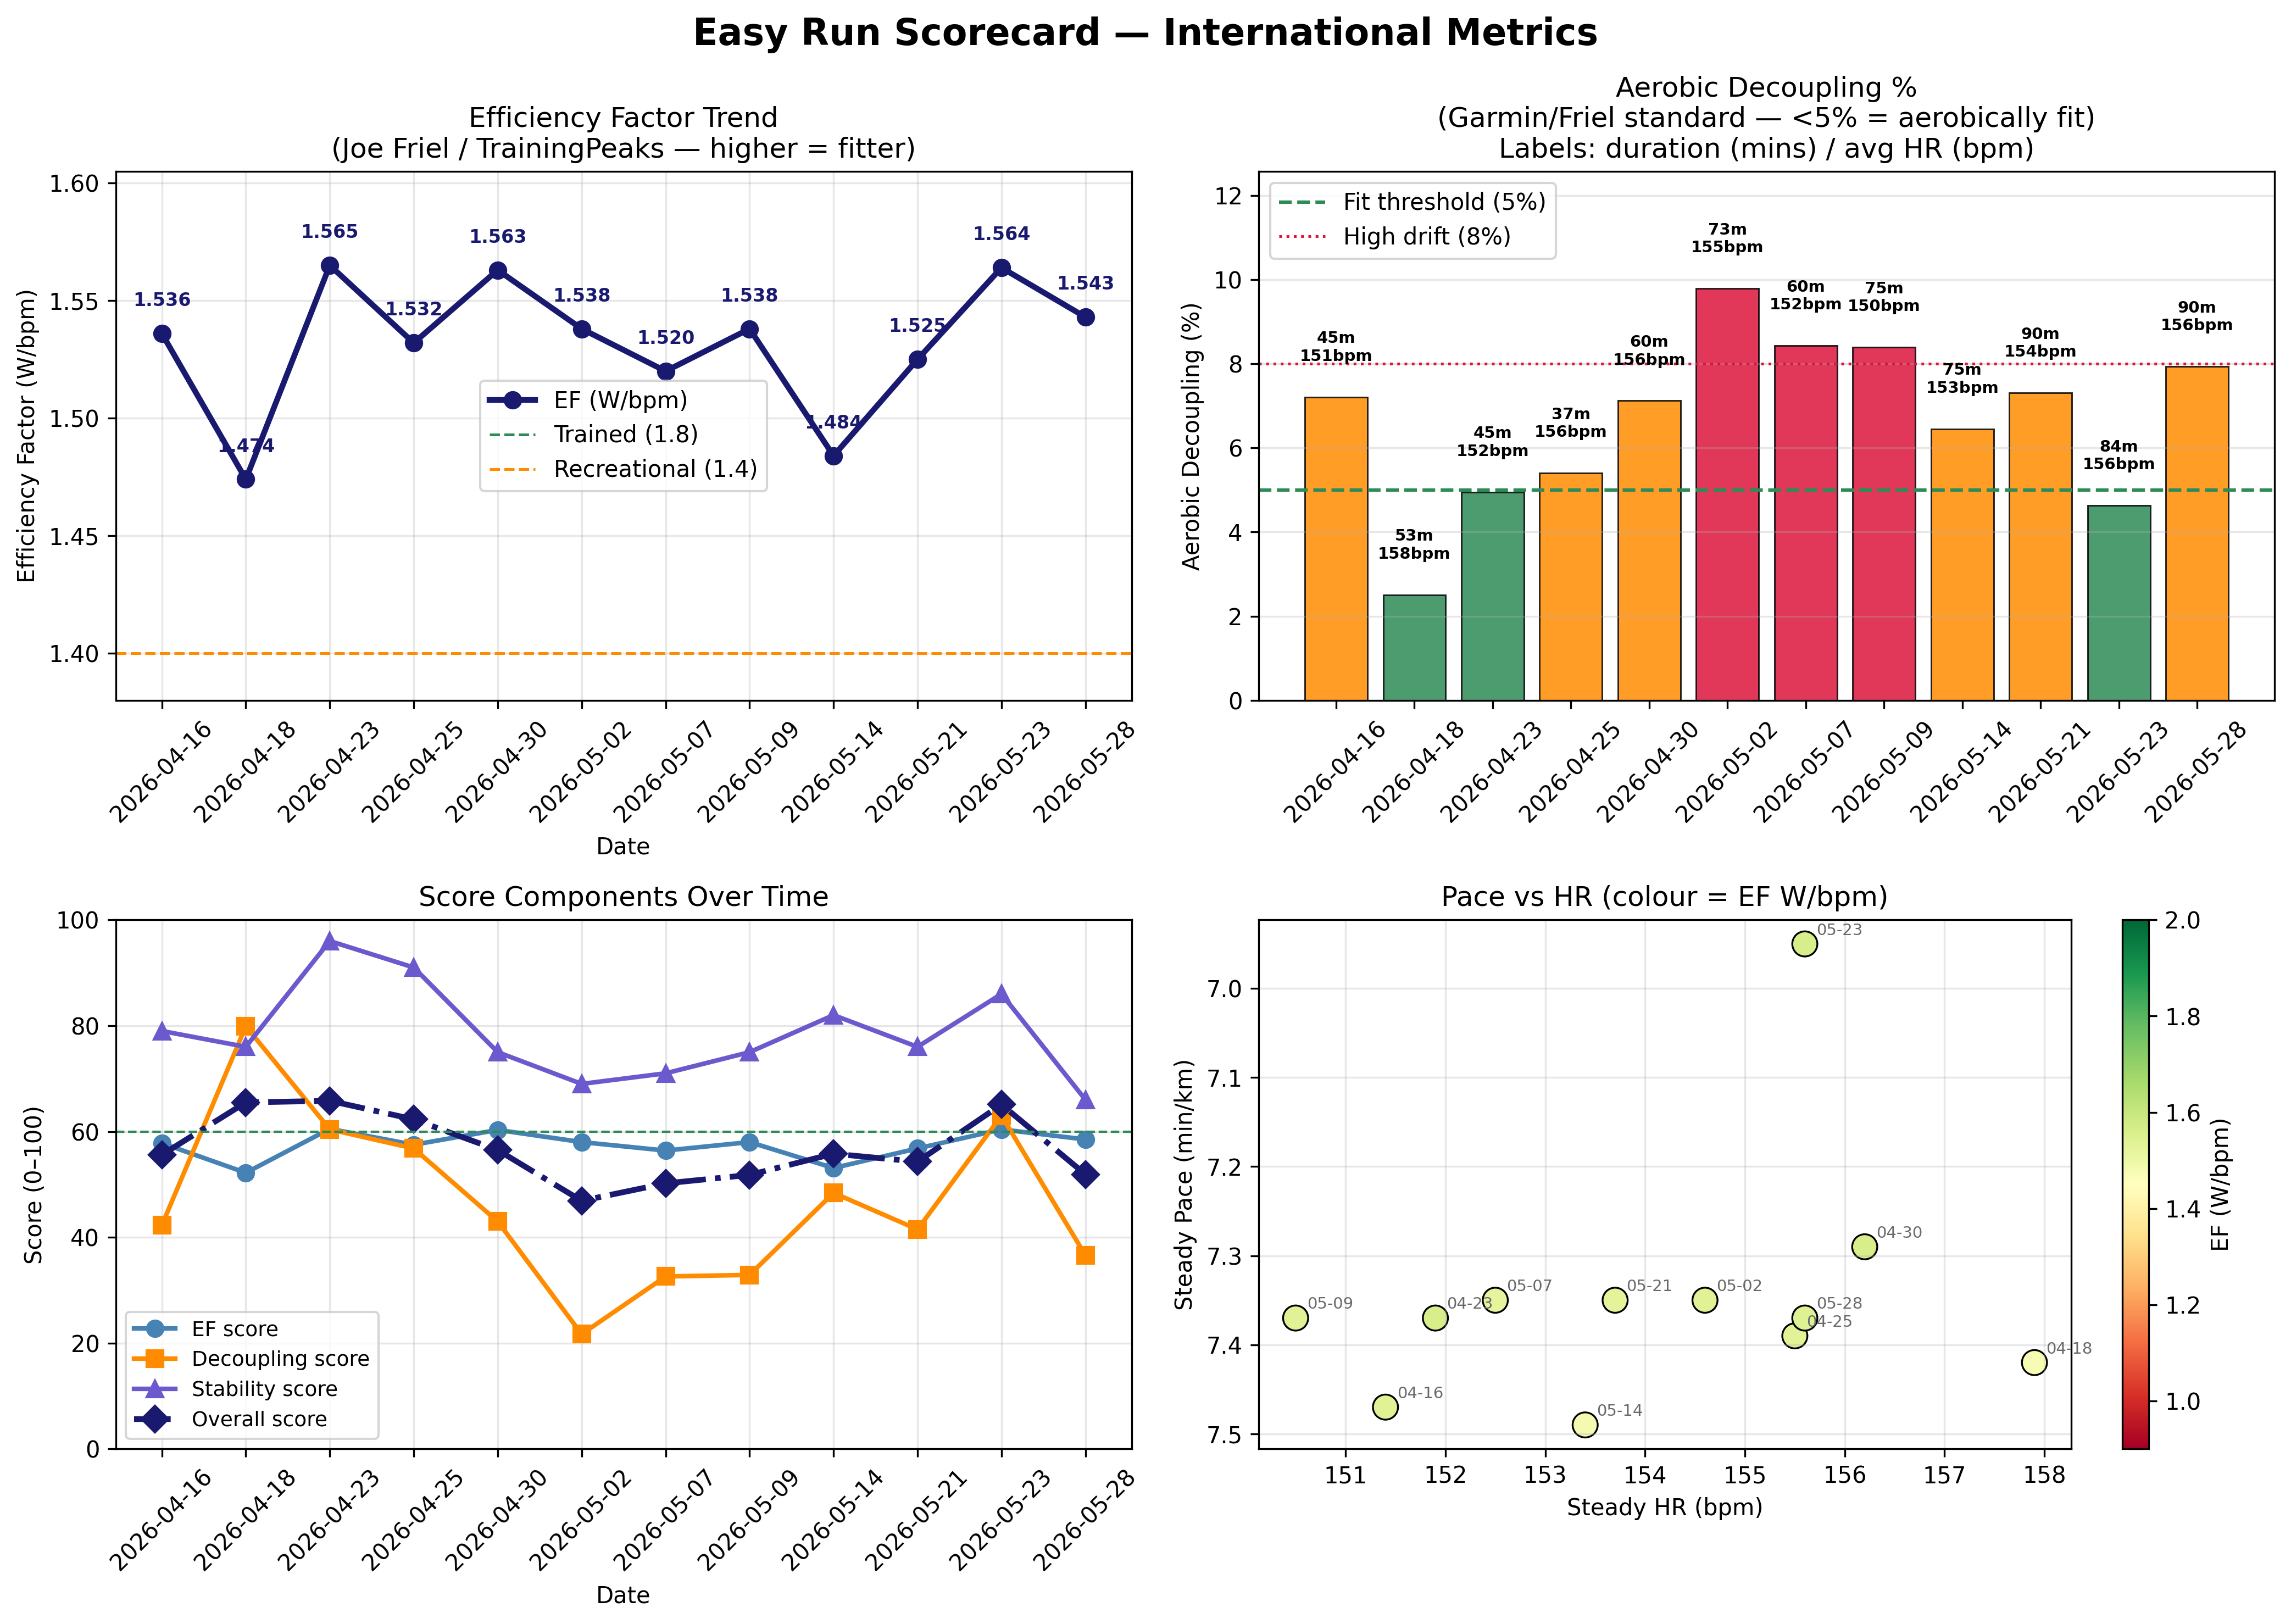
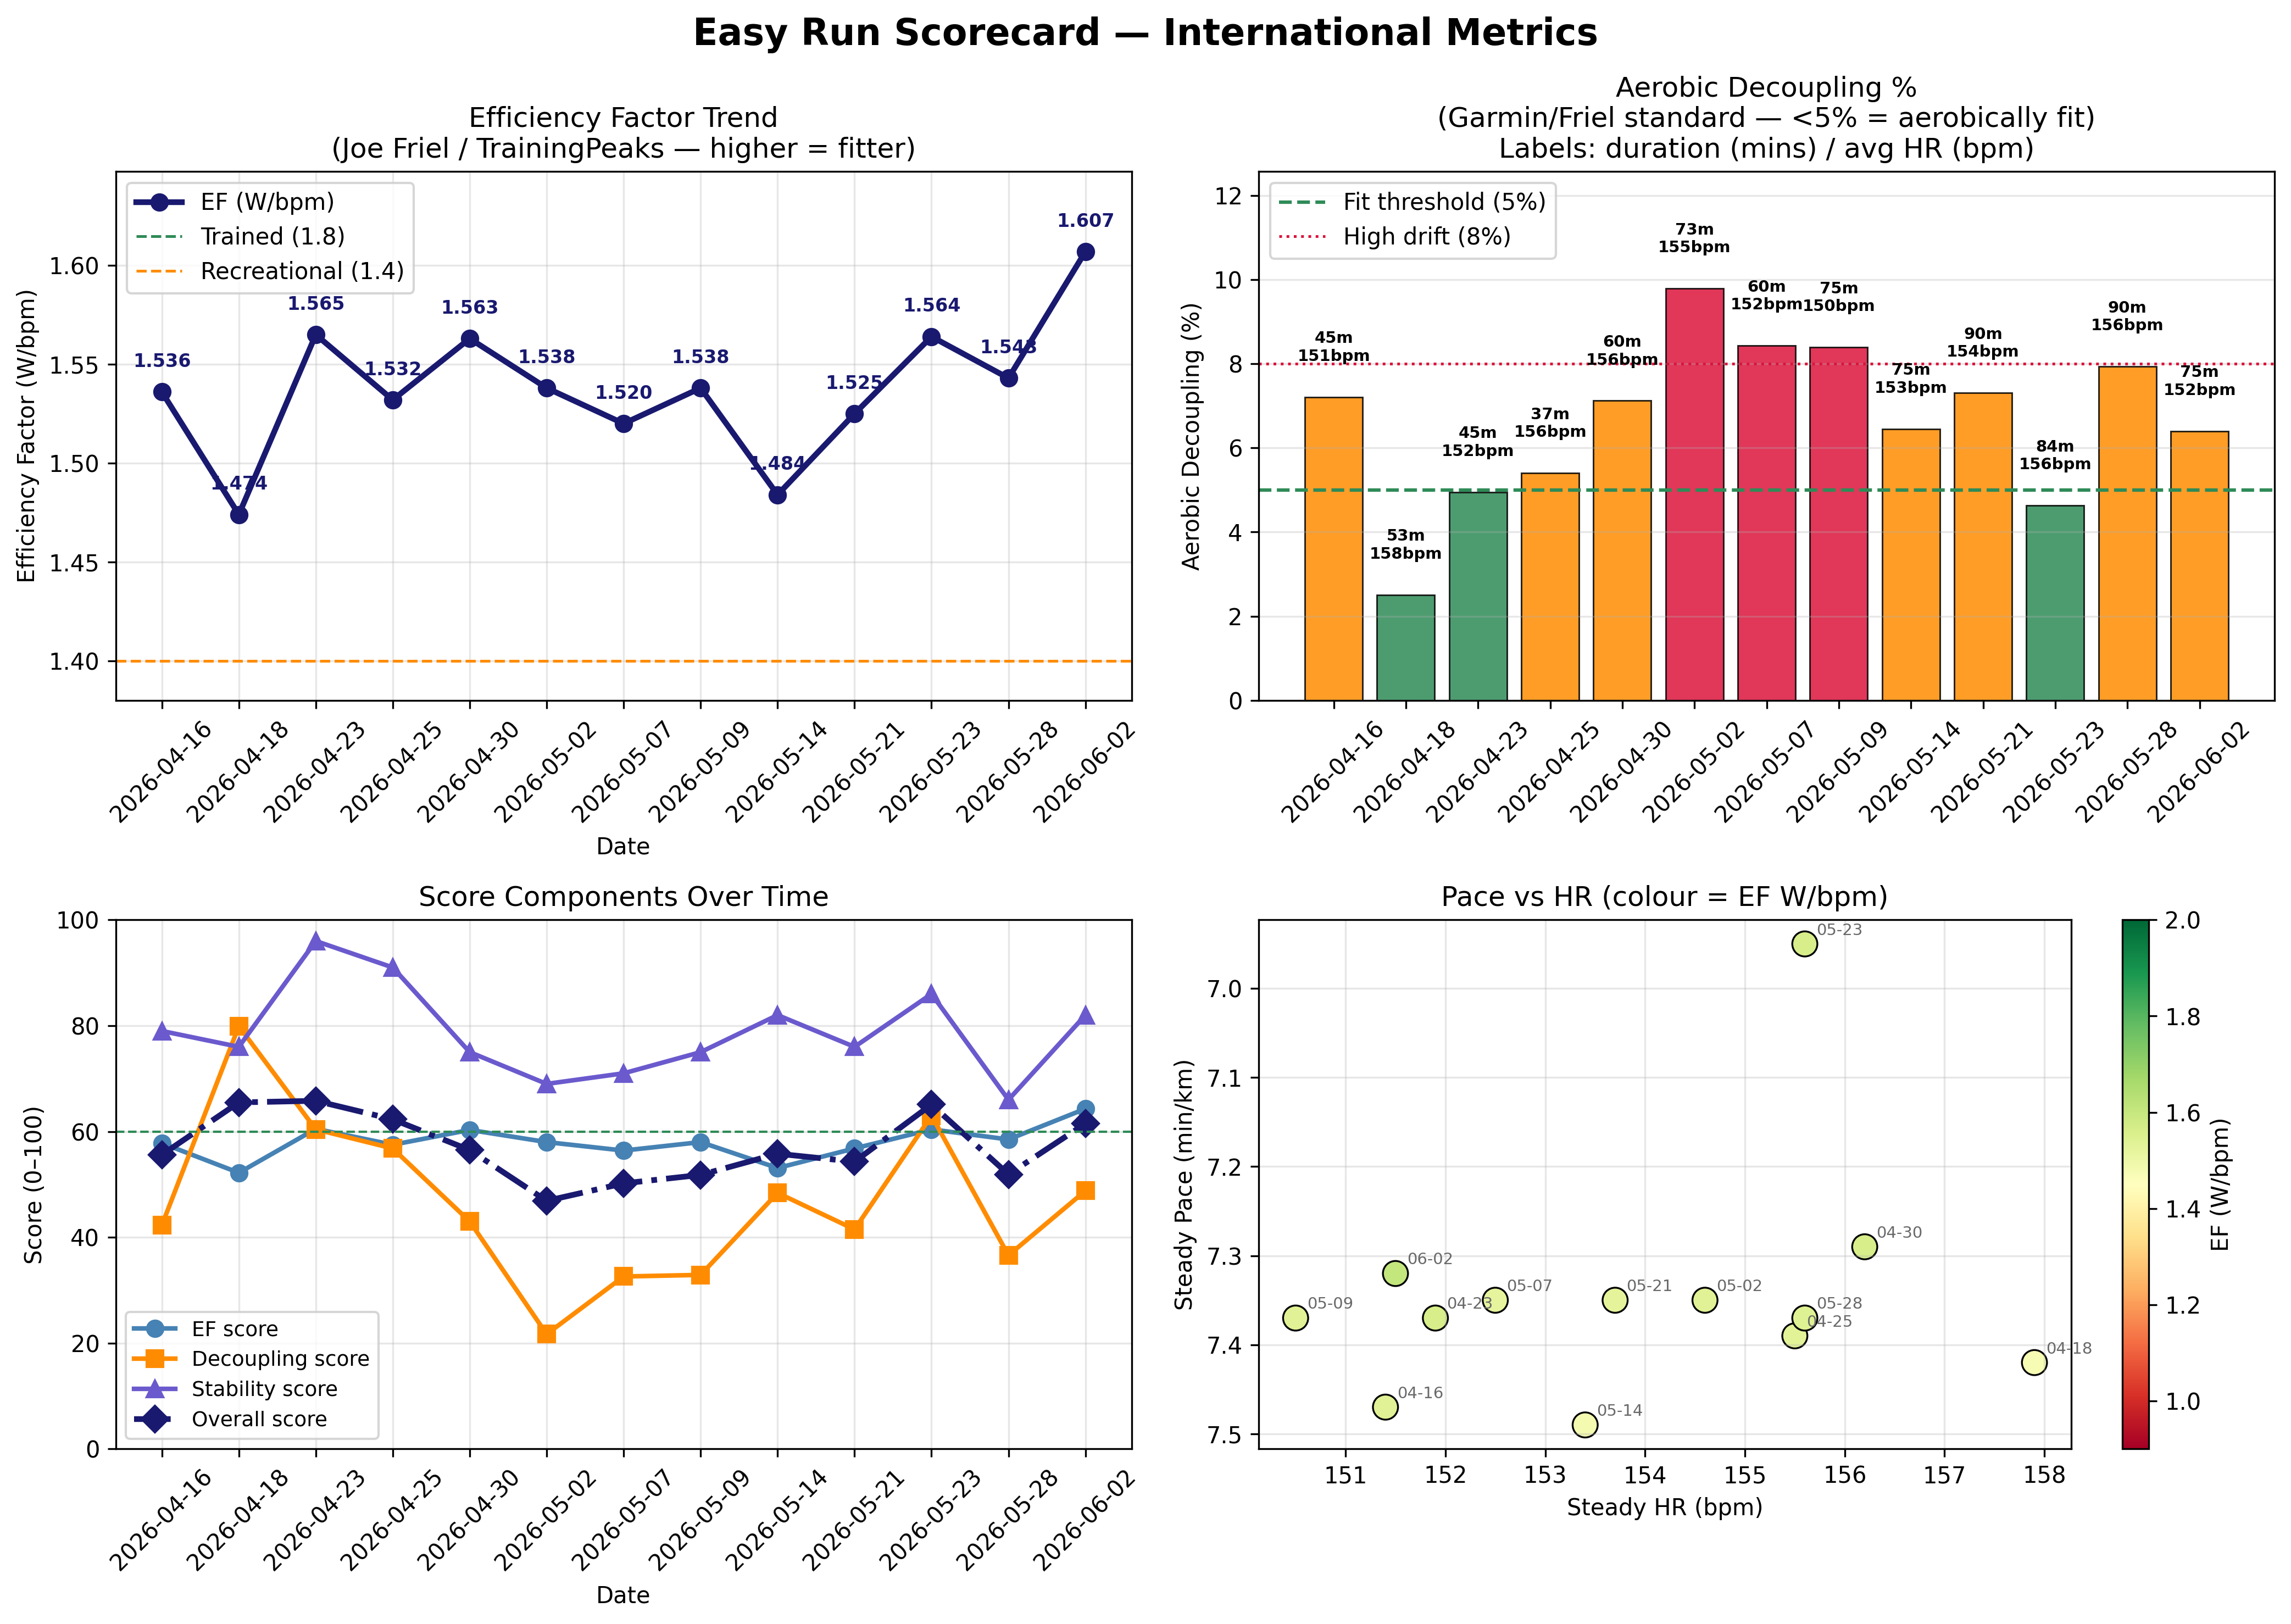
Report as of June 2nd

diff --git a/reports/easy/hr_timeline_report.md b/reports/easy/hr_timeline_report.md
@@ -1,11 +1,10 @@
 # Easy Run Endurance Analysis
 
-Overall status: **fatigue_risk**
+Overall status: **improving**
 
-- Efficiency Factor (EF, W/bpm — Joe Friel / TrainingPeaks standard): first run 1.536 W/bpm -> last run 1.543 W/bpm (+0.5%). Reference: <1.4 beginner, 1.4–1.8 recreational, 1.8+ trained.
-- Aerobic Decoupling (Garmin / Joe Friel standard — <5% = aerobically fit run): median 7.2%, 3/12 runs below the 5% threshold. This metric is load-independent — valid for comparing 5 km and 10 km easy runs.
-- Latest run score 51.9/100 (EF 58.5, decoupling 36.6, stability 66.0).
-- Latest week shows fatigue risk: aerobic decoupling 7.9%, score 51.9.
+- Efficiency Factor (EF, W/bpm — Joe Friel / TrainingPeaks standard): first run 1.536 W/bpm -> last run 1.607 W/bpm (+4.6%). Reference: <1.4 beginner, 1.4–1.8 recreational, 1.8+ trained.
+- Aerobic Decoupling (Garmin / Joe Friel standard — <5% = aerobically fit run): median 7.1%, 3/13 runs below the 5% threshold. This metric is load-independent — valid for comparing 5 km and 10 km easy runs.
+- Latest run score 61.5/100 (EF 64.3, decoupling 48.8, stability 82.0).
 
 ## Metric Availability
 
@@ -30,6 +29,7 @@ Overall status: **fatigue_risk**
 | 2026-05-21 | 90min Easy | 12.28 | 7.35 | 154 | 1.525 | 7.3 | 1.9% | 1.6% | 3325.2 | steady |
 | 2026-05-23 | 12K Run | 12.01 | 6.95 | 156 | 1.564 | 4.6 | 5.8% | 4.6% | 3517.6 | improving |
 | 2026-05-28 | 90min Easy | 12.24 | 7.37 | 156 | 1.543 | 7.9 | -5.7% | -5.7% | 3798.4 | fatigue_risk |
+| 2026-06-02 | 75min Easy | 10.26 | 7.32 | 152 | 1.607 | 6.4 | 0.7% | 3.3% | 3639.4 | improving |
 
 ## Weekly Summary
 
@@ -42,14 +42,15 @@ Overall status: **fatigue_risk**
 | 19 | 2026-05-14 to 2026-05-14 | 1 | 55.8 | 1.484 | 6.5 | fatigue_risk |
 | 20 | 2026-05-21 to 2026-05-23 | 2 | 59.7 | 1.544 | 6.0 | improving |
 | 21 | 2026-05-28 to 2026-05-28 | 1 | 51.9 | 1.543 | 7.9 | fatigue_risk |
+| 22 | 2026-06-02 to 2026-06-02 | 1 | 61.5 | 1.607 | 6.4 | improving |
 
 ## Overall Observations Worth Tracking
 
-- Steady-state easy pace changed +1.4% from the first comparable run to the latest run.
-- Steady power-per-heartbeat changed +0.5% across the timeline, which is the cleanest aerobic-efficiency signal in this dataset.
-- Aerobic decoupling moved +0.7 percentage points from the opening run to the latest run.
-- 10 runs were recorded at 30 C or hotter; heat is a plausible confounder for drift and HR cost in this sample.
-- 3/12 runs crossed the 8% decoupling line, which is the strongest within-run fatigue signal in these easy sessions.
+- Steady-state easy pace changed +2.0% from the first comparable run to the latest run.
+- Steady power-per-heartbeat changed +4.6% across the timeline, which is the cleanest aerobic-efficiency signal in this dataset.
+- Aerobic decoupling moved -0.8 percentage points from the opening run to the latest run.
+- 11 runs were recorded at 30 C or hotter; heat is a plausible confounder for drift and HR cost in this sample.
+- 3/13 runs crossed the 8% decoupling line, which is the strongest within-run fatigue signal in these easy sessions.
 
 ## Per-Run Summaries
 
@@ -850,6 +851,72 @@ Overall status: **fatigue_risk**
 
 - Average temperature was 32.0 C, so heat strain is a realistic contributor to elevated HR and drift.
 - 41.8% of the run sat in HR zone 4 by Garmin max-HR zones, which is high for a nominal easy run.
+
+#### 8. Recommendations
+
+- If the goal is true zone-2 development, reduce pace until more of the run stays inside Garmin zone 2 instead of zone 3-4.
+- Treat this run as heat-adjusted data: compare it mainly against other warm runs and prioritize hydration/cooling over pace targets.
+
+### 2026-06-02 - 75min Easy
+
+#### 1. Executive Summary
+
+- 10.26 km in 75.1 min, average pace 7.32 min/km, steady pace 7.32 min/km.
+- Average HR 148 bpm, steady HR 152 bpm, EF 1.607 W/bpm, aerobic decoupling 6.4%.
+- Reference comparison (2026-05-28): pace 0.7% better/worse depending on sign, EF 4.1%, drift delta -1.5 pts.
+
+#### 2. Key Metrics Table
+
+| Category | Metric | Value | Status |
+| --- | --- | --- | --- |
+| Basic | Duration | 75.1 min | measured |
+| Basic | Distance | 10.26 km | measured |
+| Basic | Average pace | 7.32 min/km | measured |
+| Basic | Moving pace | 7.33 min/km | measured |
+| Basic | Best pace | 4.98 min/km | measured |
+| Basic | Elevation gain/loss | 3.0 m / 8.0 m | measured |
+| Environment | Average / max temperature | 30.0 C / 31.0 C | measured |
+| Heart rate | Average / max HR | 148 / 159 bpm | measured |
+| Heart rate | HR zone distribution | Z1 2.4%, Z2 4.3%, Z3 87.3%, Z4 6.0%, Z5 0.0% | measured |
+| Heart rate | Recovery HR at 120 s | 32.0 bpm | measured |
+| Heart rate | Settled HR at 120 s (post-stop) | 123.0 bpm | measured |
+| Heart rate | Resting HR (profile) | 58.0 bpm | measured |
+| Power | Average / max / normalized power | 245.0 W / 366.0 W / 246.0 W | measured |
+| Power | Power zones | Z1 0.1%, Z2 44.1%, Z3 55.6%, Z4 0.2%, Z5 0.1% | measured |
+| Power | W/kg / stability | 3.30 W/kg / 5.7% CV | measured |
+| Dynamics | Cadence / stride length | 164 spm / 0.828 m | measured |
+| Dynamics | Ground contact / vertical oscillation / vertical ratio | 285.7 ms / 81.6 mm / 9.86% | measured |
+| Aerobic | Training effect / anaerobic TE | 3.1 / 0.0 | measured |
+| Aerobic | Load focus | low_aerobic_estimated | estimated |
+| Recovery | Body Battery / HRV / stress / recovery time | unavailable / unavailable / unavailable / unavailable | unavailable |
+| Recovery | Estimated sweat loss | 1251.0 mL (1.251 L) | measured |
+| Recovery | Sleep profile window | 21:30:00 to 04:30:00 | measured |
+
+#### 3. Physiological Interpretation
+
+- Cardiac drift rose above the ideal easy-run range, suggesting either excessive intensity for the day, heat strain, or incomplete recovery.
+- At nearly the same steady pace as the reference run, HR cost changed +2.7%.
+
+#### 4. Aerobic Efficiency Analysis
+
+- Steady-state EF was 1.607 W/bpm and steady speed per HR was 0.01503 m/s/bpm.
+- Aerobic decoupling was 6.4% and power-HR decoupling was 6.7%.
+- Time spent in Garmin HR zone 2 was 3.2 min; pace inside that zone was 7.78 min/km.
+
+#### 5. Fatigue/Recovery Assessment
+
+- Fatigue resilience score: 60.2/100 with steady HR rise 4.4 bpm. 
+- Rolling 3-run load proxy: 3639.4 kJ mechanical work and 10.1 summed aerobic training effect.
+- Recovery-specific Garmin wellness metrics were not embedded in these FIT files, so under-recovery can only be inferred indirectly from drift, HR cost, and temperature context.
+
+#### 6. Running Economy Notes
+
+- Mechanical energy cost was 107.6 J/m and average running economy was 107.6 W per m/s.
+- Cadence stability was 2.4% CV and pace durability changed 0.1% from early to late thirds.
+
+#### 7. Concerns or Risks
+
+- Average temperature was 30.0 C, so heat strain is a realistic contributor to elevated HR and drift.
 
 #### 8. Recommendations
 